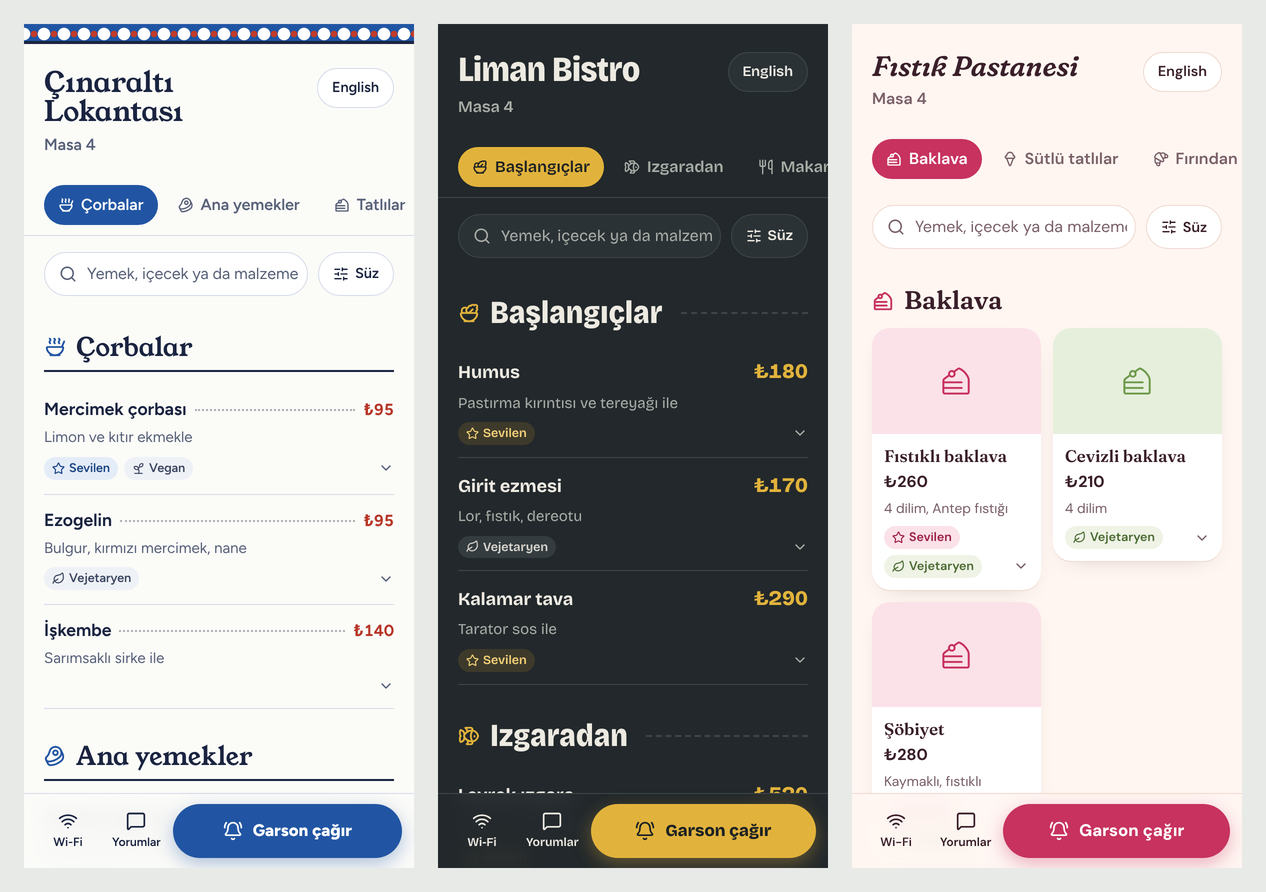
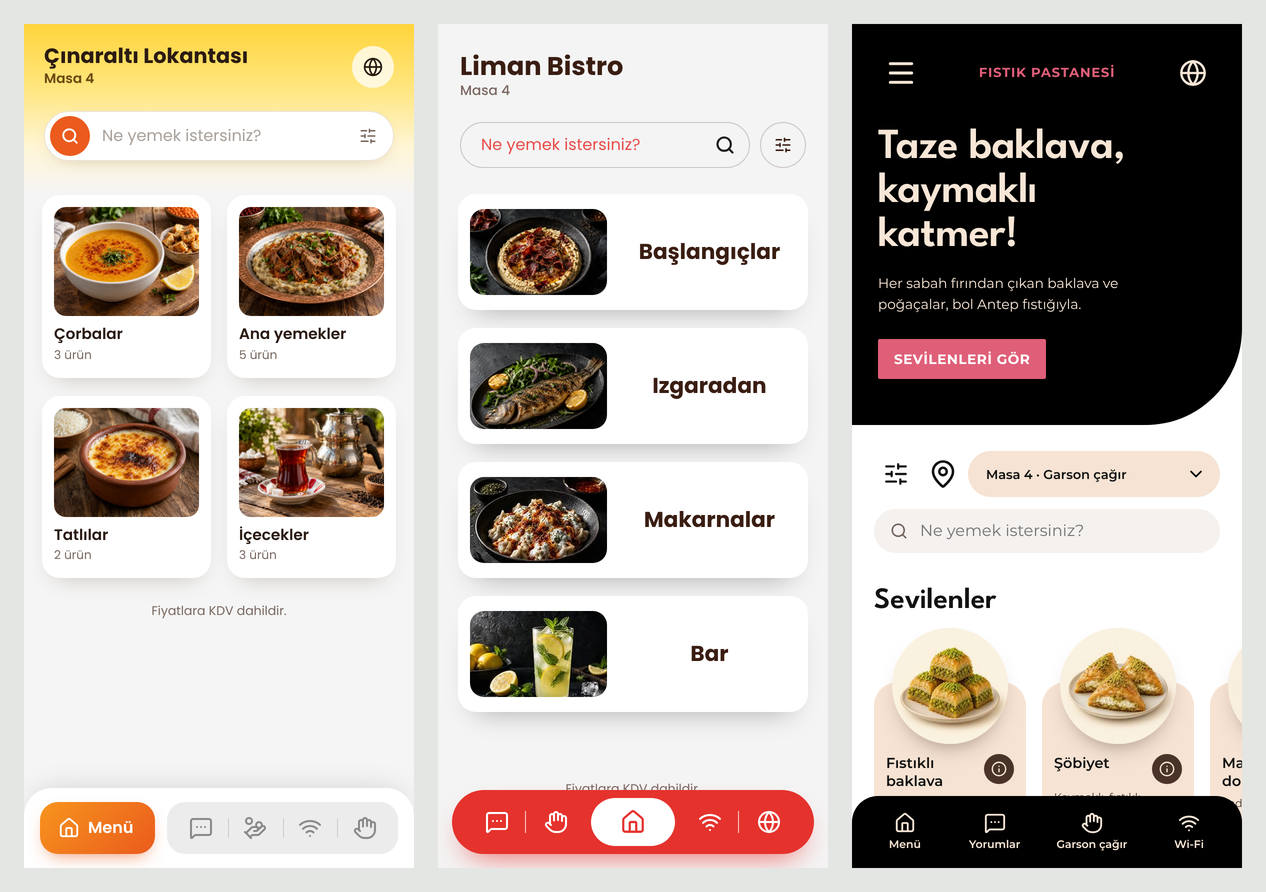
docs: new menu screenshots; CI checks demo images are served
Claude-Session: https://claude.ai/code/session_017ibmErqz1UgESiumitxDaf

diff --git a/README.md b/README.md
@@ -16,7 +16,7 @@ Restoran ve kafeler için QR kodlu dijital menü. Müşteri masadaki kodu okutur
 - İşletme paneli: https://qr-menus.onrender.com/panel
 - API dokümantasyonu: https://qr-menus.onrender.com/api/docs/
 
-Panel için demo hesabı: `demo` / `demo-sifre-2026`. Tüm demo verileri kurgusaldır.
+Panel için demo hesabı: `demo` / `demo-sifre-2026`. Tüm demo verileri kurgusaldır; yemek görselleri yapay zekâ ile üretilmiştir.
 
 ![Aynı menünün üç teması: Klasik, Bistro ve Vitrin](docs/screenshots/menu-temalar.png)
 
@@ -24,7 +24,7 @@ Panel için demo hesabı: `demo` / `demo-sifre-2026`. Tüm demo verileri kurgusa
 
 Basılı menüler güncellenemez, alerjen bilgisi taşımaz ve yabancı misafire hitap etmez. Garsona ulaşmak için el kaldırıp beklemek gerekir. Bu proje:
 
-- Menüyü **masaya özel** bir QR koduyla açar; hangi masadan çağrı geldiği otomatik bilinir.
+- Menüyü **masaya özel** bir QR koduyla açar; garson çağrısında ya da hesap isteğinde hangi masa olduğu otomatik bilinir.
 - Ürünü panelden pasifleştirmek onu **anında** menüden kaldırır; yeniden basım gerekmez.
 - 14 yasal alerjen grubunu standart kodlarla tutar ve müşterinin menüyü **süzmesini** sağlar.
 - İşletmeye ziyaret, yoğun saat ve garson yanıt süresi gibi **ölçülebilir** veriler verir.
@@ -32,17 +32,18 @@ Basılı menüler güncellenemez, alerjen bilgisi taşımaz ve yabancı misafire
 ## Özellikler
 
 **Müşteri menüsü** (uygulama indirmeden, telefon tarayıcısında)
-- Üç tema, tek kod: Klasik (İznik çinisi), Bistro (kara tahta), Vitrin (pastane camekânı); açık/koyu mod
+- Üç tema, tek davranış: **Klasik** (sarı degrade başlık, iki sütunlu görselli kategori kartları), **Bistro** (yatay kategori kartları, sayfalama, kırmızı alt çubuk), **Vitrin** (siyah başlıkta slogan, yana kayan ürün rafları). Temalar yalnızca görünümü değiştirir; veri, süzgeç ve çağrı mantığı ortaktır
+- Kategoriden ürünlere, üründen ayrıntıya (içindekiler, alerjenler, hazırlık süresi) giden sade gezinme; masa bağlantısı sayfalar arasında korunur
 - Türkçe ve İngilizce; telefonun diline göre açılır, İngilizce alan boşsa Türkçeye düşer
 - Türkçe harflere duyarsız arama ("manti" → Mantı), alerjen ve vegan/vejetaryen/acılı süzgeci
-- Masa QR'ıyla açıldığında garson çağırma ve çağrının canlı durumu
+- Masa QR'ıyla açıldığında **garson çağırma** ve **hesap isteme**, isteğin canlı durumu
 - Wi-Fi bilgisi (kopyala düğmesiyle) ve işletme onayından geçen yorumlar
 
 **İşletme paneli**
-- Canlı garson çağrısı panosu: 5 saniyede bir yenilenir, isteğe bağlı zil sesi, sekme başlığında bekleyen sayısı
+- Canlı çağrı panosu: 5 saniyede bir yenilenir, hesap istekleri ayrı renkte, isteğe bağlı zil sesi, sekme başlığında bekleyen sayısı
 - Menü düzenleyici: kategoriler (ikonlu), ürünler, iki dilde içerik, alerjenler, görsel, sıralama, tek tıkla gizleme
 - Masalar: tekli/toplu ekleme, QR önizleme ve indirme, sızan bir QR'ı geçersiz kılmak için yeni kod üretme, **tüm masa kartları tek PDF**
-- Yorum moderasyonu, kaydetmeden önce canlı tema önizlemesi
+- Yorum moderasyonu, slogan ve kısa tanıtım (TR/EN), kaydetmeden önce canlı tema önizlemesi
 - İstatistikler: günlük ziyaret, saatlere göre çağrı, ortalama yanıt süresi, puan dağılımı
 
 **Masaüstü çağrı ekranı** ([qr-menu-desktop](https://github.com/melisayalcinkaya/qr-menu-desktop))
@@ -51,12 +52,12 @@ Basılı menüler güncellenemez, alerjen bilgisi taşımaz ve yabancı misafire
 
 **Geliştirici tarafı**
 - OpenAPI şeması ve Swagger arayüzü: `/api/docs/`
-- 66 backend + 16 frontend testi, %90 kapsam alt sınırı, uçtan uca duman testi yapan CI
+- 70 backend + 24 frontend testi (üç tema da sahte API ile uçtan uca çiziliyor), %90 kapsam alt sınırı, Docker imajını açıp deneyen CI
 - Tek Docker imajı; Render'a tek tıkla kurulum (`render.yaml`)
 
-| Masa QR'ıyla menü: süzgeç ve garson çağırma | Basılabilir masa kartları (PDF) |
+| Kategori, ürün ayrıntısı ve hesap isteme | Basılabilir masa kartları (PDF) |
 |---|---|
-| ![Süzgeç ve garson çağırma](docs/screenshots/menu-suzgec-ve-cagri.png) | ![Masa kartları](docs/screenshots/masa-kartlari.png) |
+| ![Kategori sayfası, ürün ayrıntısı ve hesap isteme](docs/screenshots/menu-ayrinti-ve-cagri.png) | ![Masa kartları](docs/screenshots/masa-kartlari.png) |
 
 ![Panelde genel bakış](docs/screenshots/panel-genel-bakis.png)
 
@@ -113,7 +114,7 @@ Projenin ilk sürümünde bulunan açıklar düzeltildi ve her biri için regres
 
 Diğer önlemler:
 - Masa belirteçleri tahmin edilemez; başka işletmenin belirteci geçmez.
-- Aynı masadan tekrar basılan "Garson çağır" yeni çağrı açmaz (idempotent, `select_for_update`).
+- Aynı masadan tekrar basılan "Garson çağır" yeni çağrı açmaz (idempotent, `select_for_update`); açık çağrı varken hesap istenirse çağrı "hesap"a yükseltilir, panoda aynı masa için iki kart oluşmaz.
 - Yorumlar onaylanmadan yayımlanmaz ve işletme sahibi yorum metnini değiştiremez.
 - Konteyner root olmayan bir kullanıcıyla çalışır.
 
@@ -140,7 +141,7 @@ npm install
 npm run dev                     # http://localhost:5173 (/api istekleri Django'ya yönlendirilir)
 ```
 
-Demo menüler: `/m/cinaralti-lokantasi`, `/m/liman-bistro`, `/m/fistik-pastanesi`. Garson çağırmayı denemek için sonuna `?masa=demo-klasik-4` (ya da `demo-bistro-4`, `demo-vitrin-4`) ekleyin.
+Demo menüler: `/m/cinaralti-lokantasi`, `/m/liman-bistro`, `/m/fistik-pastanesi`. Garson çağırmayı ve hesap istemeyi denemek için sonuna `?masa=demo-klasik-4` (ya da `demo-bistro-4`, `demo-vitrin-4`) ekleyin.
 
 ### Docker
 
@@ -157,8 +158,8 @@ Depodaki `render.yaml` bir Blueprint tanımıdır: Render panelinde **New → Bl
 ## Testler
 
 ```bash
-cd backend && python manage.py test api        # 66 test
-cd frontend && npm test                        # 16 test
+cd backend && python manage.py test api        # 70 test
+cd frontend && npm test                        # 24 test
 ```
 
 CI her push'ta şunları çalıştırır: Ruff, eksik migration kontrolü, testler (kapsam %90 altına düşerse başarısız), demo verisi yükleme, ESLint, Vitest, Vite derlemesi. Son olarak Docker imajını production ayarlarıyla başlatıp sayfaların, kimlik doğrulamanın ve güvenlik başlıklarının çalıştığını kontrol eder.
@@ -191,7 +192,7 @@ frontend/src/
 
 ## English summary
 
-QR Menu is a digital restaurant menu opened from a per-table QR code (a desktop call screen for the till lives in [qr-menu-desktop](https://github.com/melisayalcinkaya/qr-menu-desktop)). Guests read the menu in Turkish or English, filter it by the 14 legally required allergen groups, and call a waiter with one tap; the owner sees calls live on a dashboard with an optional chime. Owners manage categories, products, tables (with printable PDF table cards), reviews and a theme with live preview, and get statistics such as average waiter response time.
+QR Menu is a digital restaurant menu opened from a per-table QR code (a desktop call screen for the till lives in [qr-menu-desktop](https://github.com/melisayalcinkaya/qr-menu-desktop)). Guests read the menu in Turkish or English, filter it by the 14 legally required allergen groups, and call a waiter or ask for the bill with one tap; the owner sees calls live on a dashboard with an optional chime. Owners manage categories, products, tables (with printable PDF table cards), reviews and a theme with live preview, and get statistics such as average waiter response time.
 
 Built with Django REST Framework and React. The first version had several access-control flaws (anonymous access to waiter calls, cross-tenant product moves, leaked reviewer e-mails, tokens in localStorage); all are fixed and covered by regression tests. Other highlights: OpenAPI docs, CSP and security headers, HttpOnly refresh-token rotation, a single Docker image, and CI that boots the image and smoke-tests it.
 
